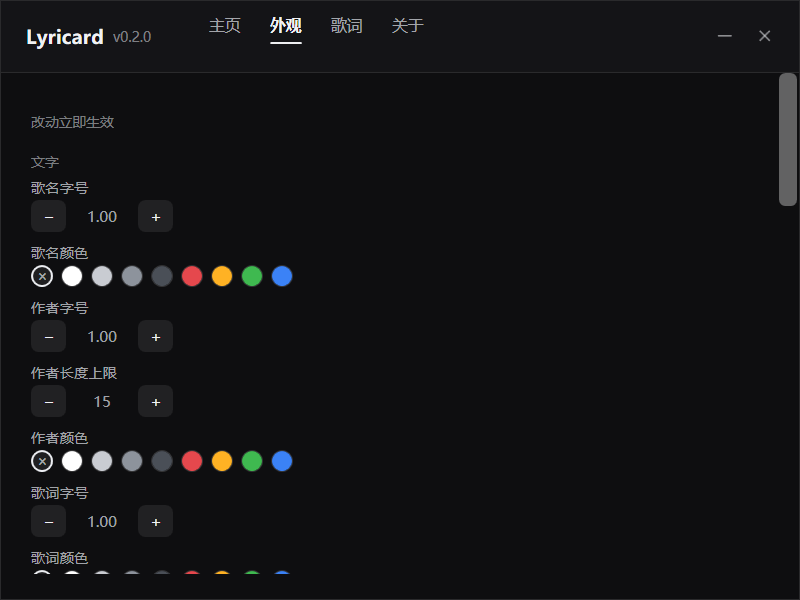
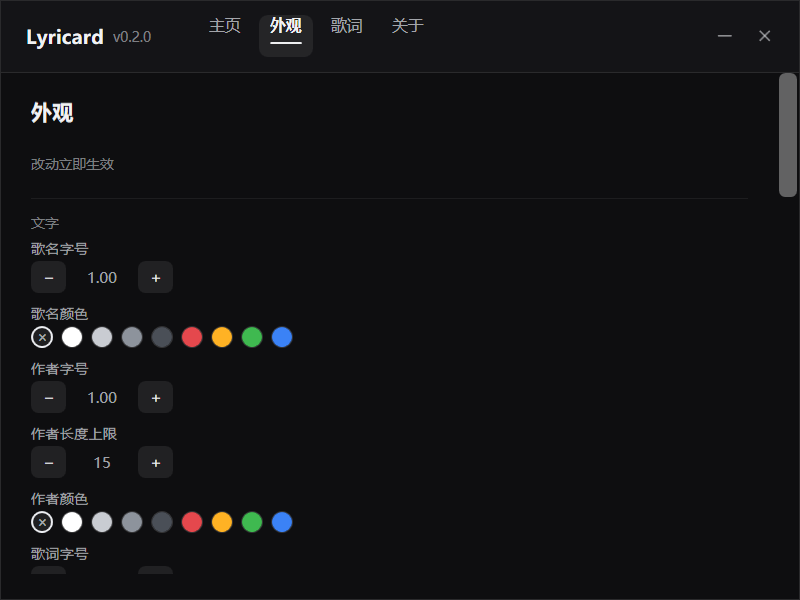
docs: refresh page screenshots; rename duplicate About section

diff --git a/src/MainWindow.cs b/src/MainWindow.cs
@@ -1044,7 +1044,7 @@ namespace Amc
             box.Children.Add(Body(Strings.T("page.about.blurb"), 12));
             box.Children.Add(Section(Strings.T("page.about.license")));
             box.Children.Add(Body(Strings.T("page.about.credits"), 11.5));
-            box.Children.Add(Section(Strings.T("nav.about")));
+            box.Children.Add(Section(Strings.T("sec.entry")));
             box.Children.Add(Body(Strings.T("page.about.shortcuts"), 11.5));
             return box;
         }

diff --git a/src/Strings.cs b/src/Strings.cs
@@ -108,6 +108,7 @@ namespace Amc
             Both("settings.title", "个性化设置", "Appearance");
 
             Both("sec.ui", "界面", "Interface");
+            Both("sec.entry", "入口与快捷键", "Entry & shortcuts");
             Both("sec.text", "文字", "Text");
             Both("sec.bar", "进度条", "Progress bar");
             Both("sec.art", "封面", "Artwork");

diff --git a/README.md b/README.md
@@ -104,6 +104,10 @@
 
 ![外观页（四组全量平铺，右上角是自绘细滚动条）](docs/main-look.png)
 
+| 歌词页 | 关于页 |
+| --- | --- |
+| ![歌词页](docs/main-lyrics.png) | ![关于页](docs/main-about.png) |
+
 | 分组 | 能改什么 | 默认 |
 | --- | --- | --- |
 | 文字 | 歌名 / 作者 / 歌词的**字号倍率**（0.60× ~ 1.60×，步进 0.05）和**颜色**；**作者长度上限**（4 ~ 40 字）；**歌名顶格余量 / 歌词顶格余量**（0 ~ 200 px，留白，长文本不会顶到最前面）；**对齐方式**（左 / 中 / 右） | 1.00×、内置色、15 字、31 / 0 px、右对齐 |
